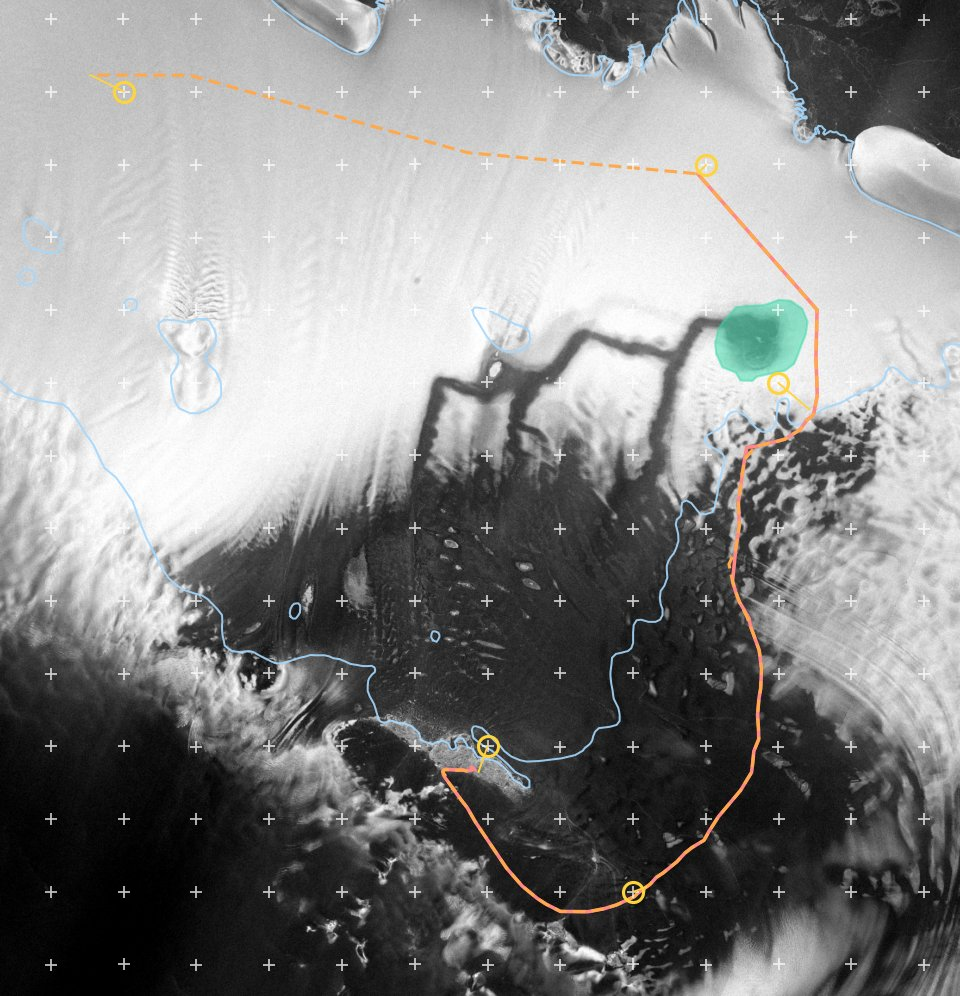
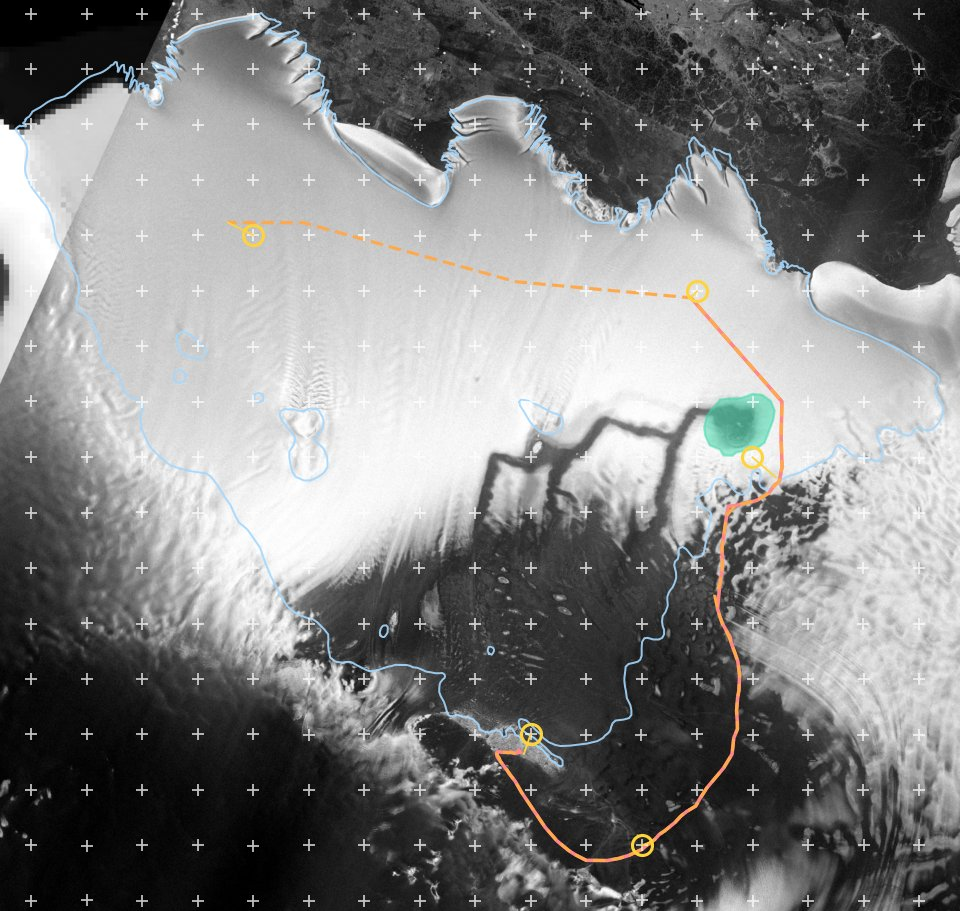
Site map shows the whole ice shelf (139 x 132 km); NW corner outside NISAR filled from MOA
Claude-Session: https://claude.ai/code/session_01DWXZjVT9cECANP9d13nzkN

diff --git a/amps/amps_viewer_template.html b/amps/amps_viewer_template.html
@@ -191,7 +191,7 @@ footer { font-size: 0.82rem; color: var(--muted); }
       <p class="maplegend"><span class="sw" style="background:#ff8787"></span>43D&ndash;Maitri route &middot;
         <span class="sw" style="background:#38d9a9;height:8px"></span>terminal lake &middot;
         <span class="sw" style="background:#a5d8ff"></span>ice shelf outline &middot;
-        + AMPS 8&nbsp;km grid node; the ring marks the node each meteogram is read from. Map 106&nbsp;&times;&nbsp;110&nbsp;km on the NISAR radar mosaic; true north points down and to the left.</p>
+        + AMPS 8&nbsp;km grid node; the ring marks the node each meteogram is read from. Map 139&nbsp;&times;&nbsp;132&nbsp;km on the NISAR radar mosaic (the far north-west corner, outside NISAR, from MODIS); true north points down and to the left.</p>
       <table class="sitetab" id="sitetab" hidden>
         <thead><tr><th>Site</th><th class="n">Elevation</th><th class="n">To the sea</th></tr></thead>
         <tbody></tbody>
